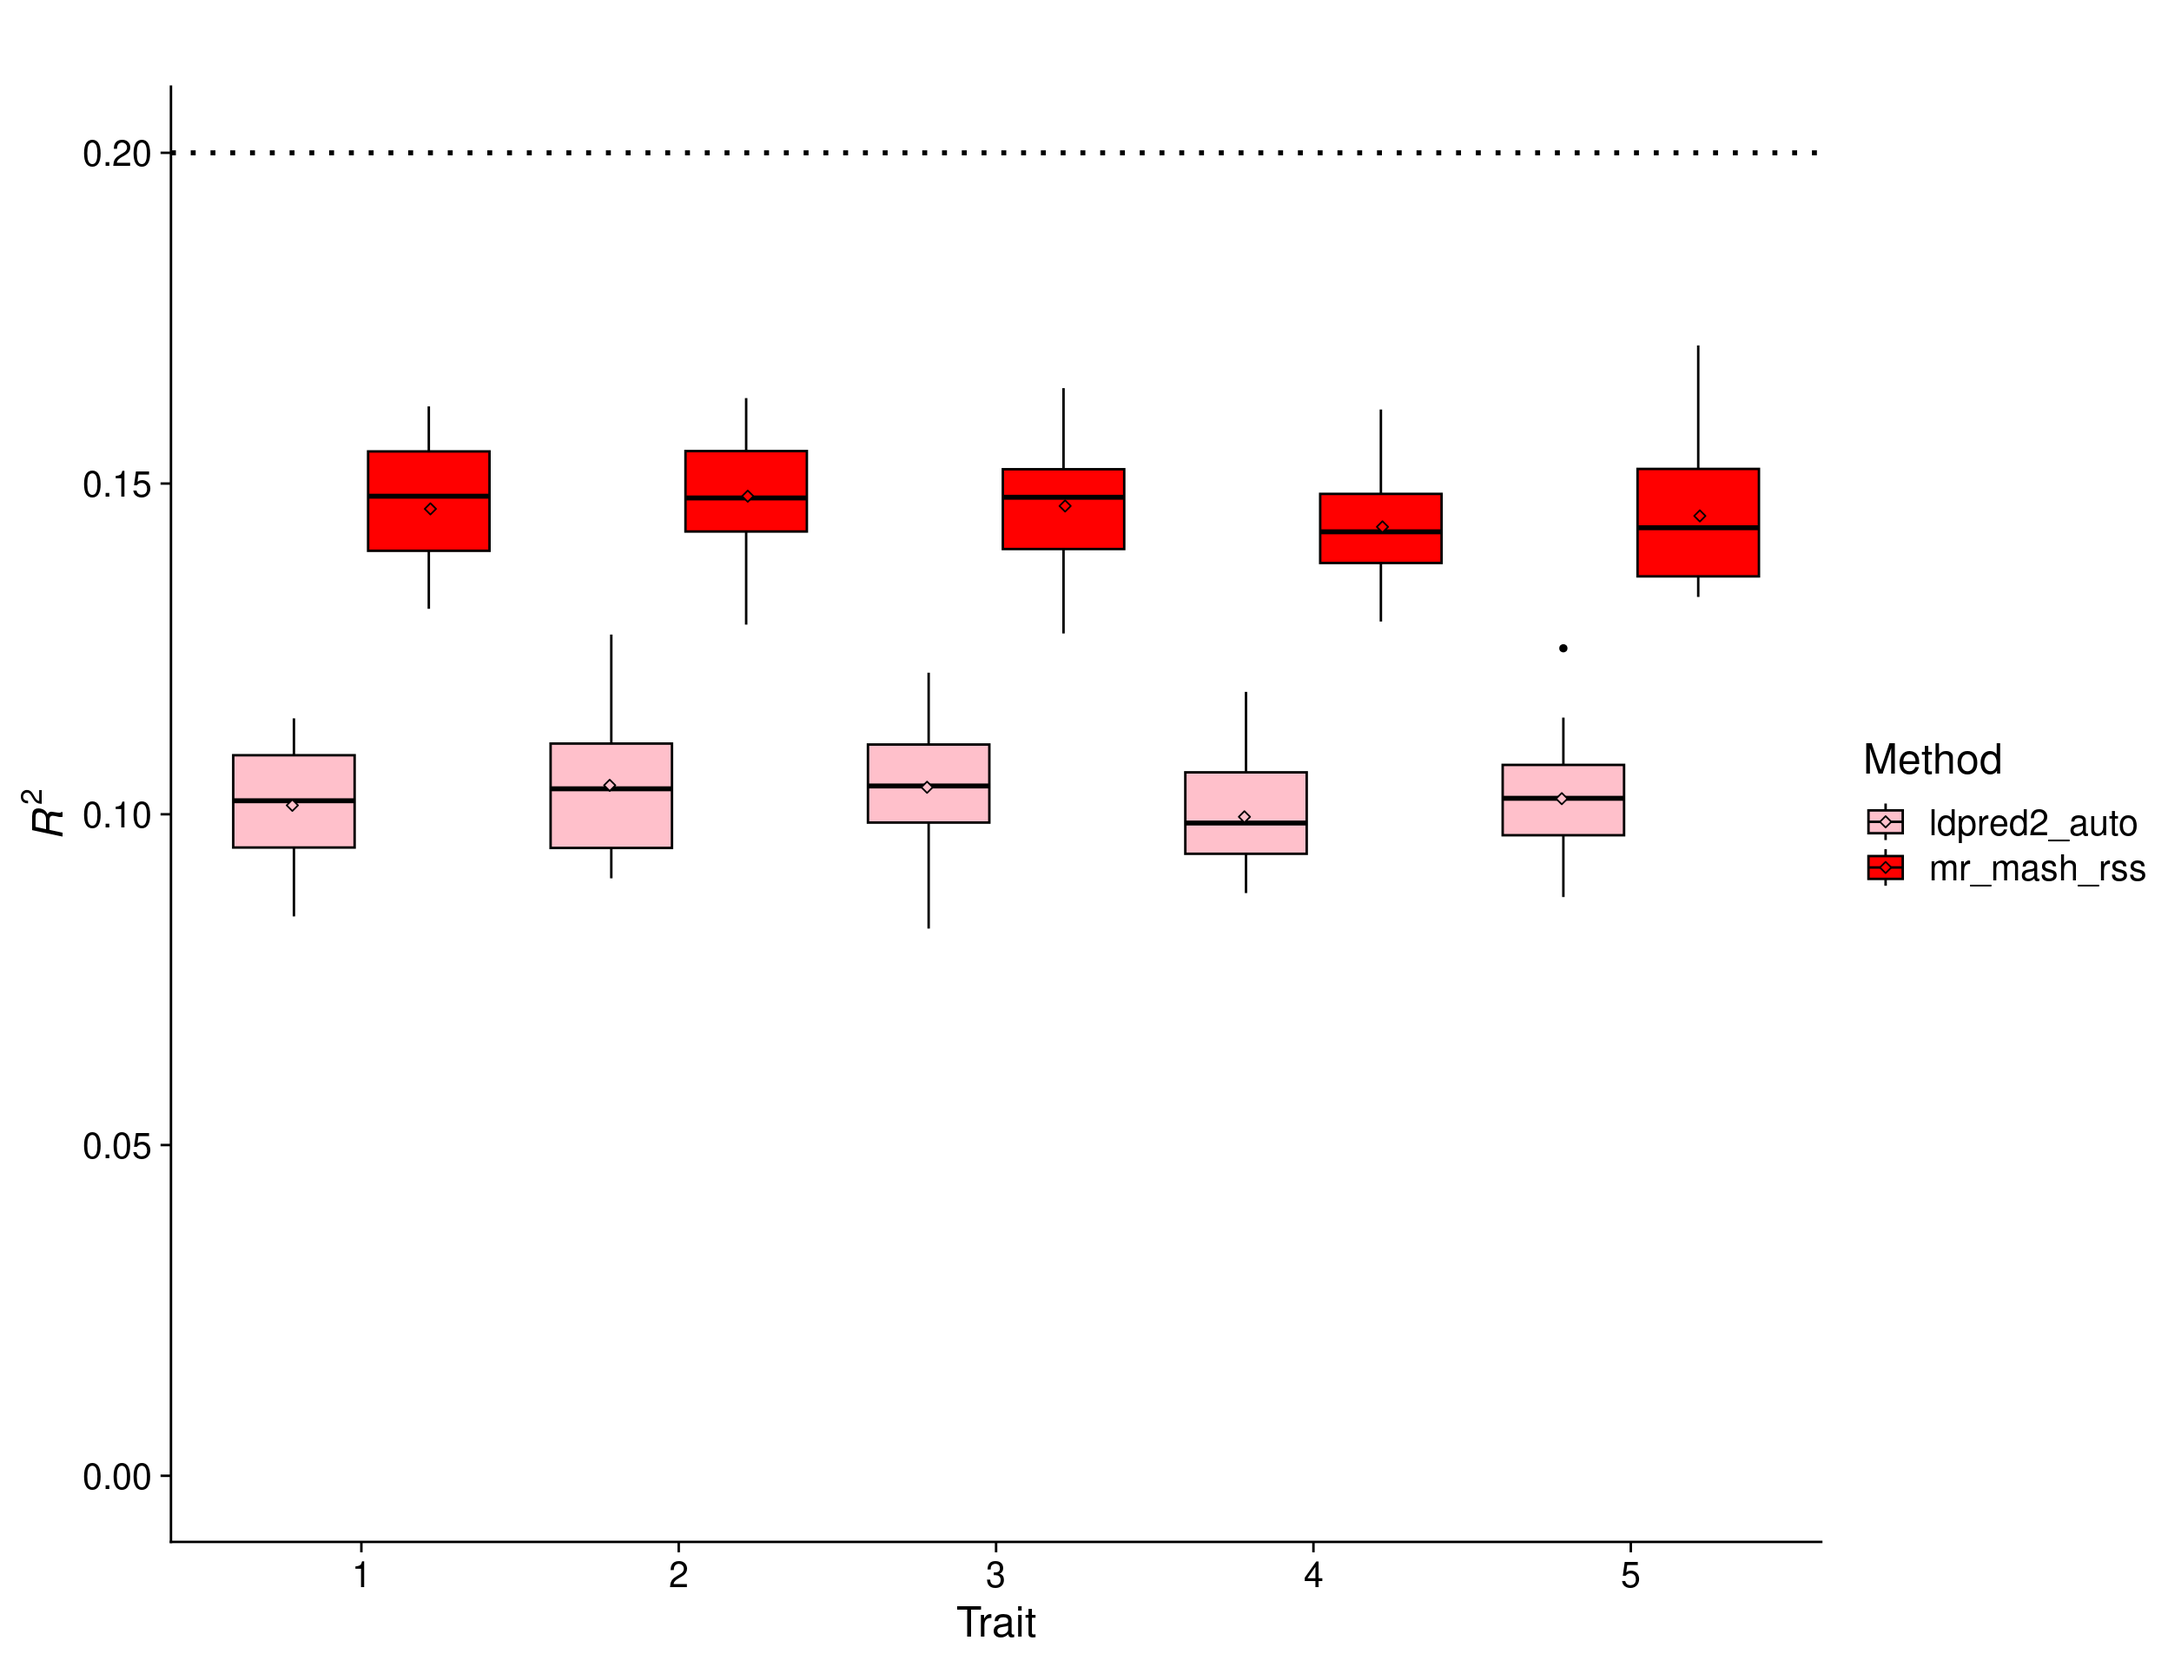
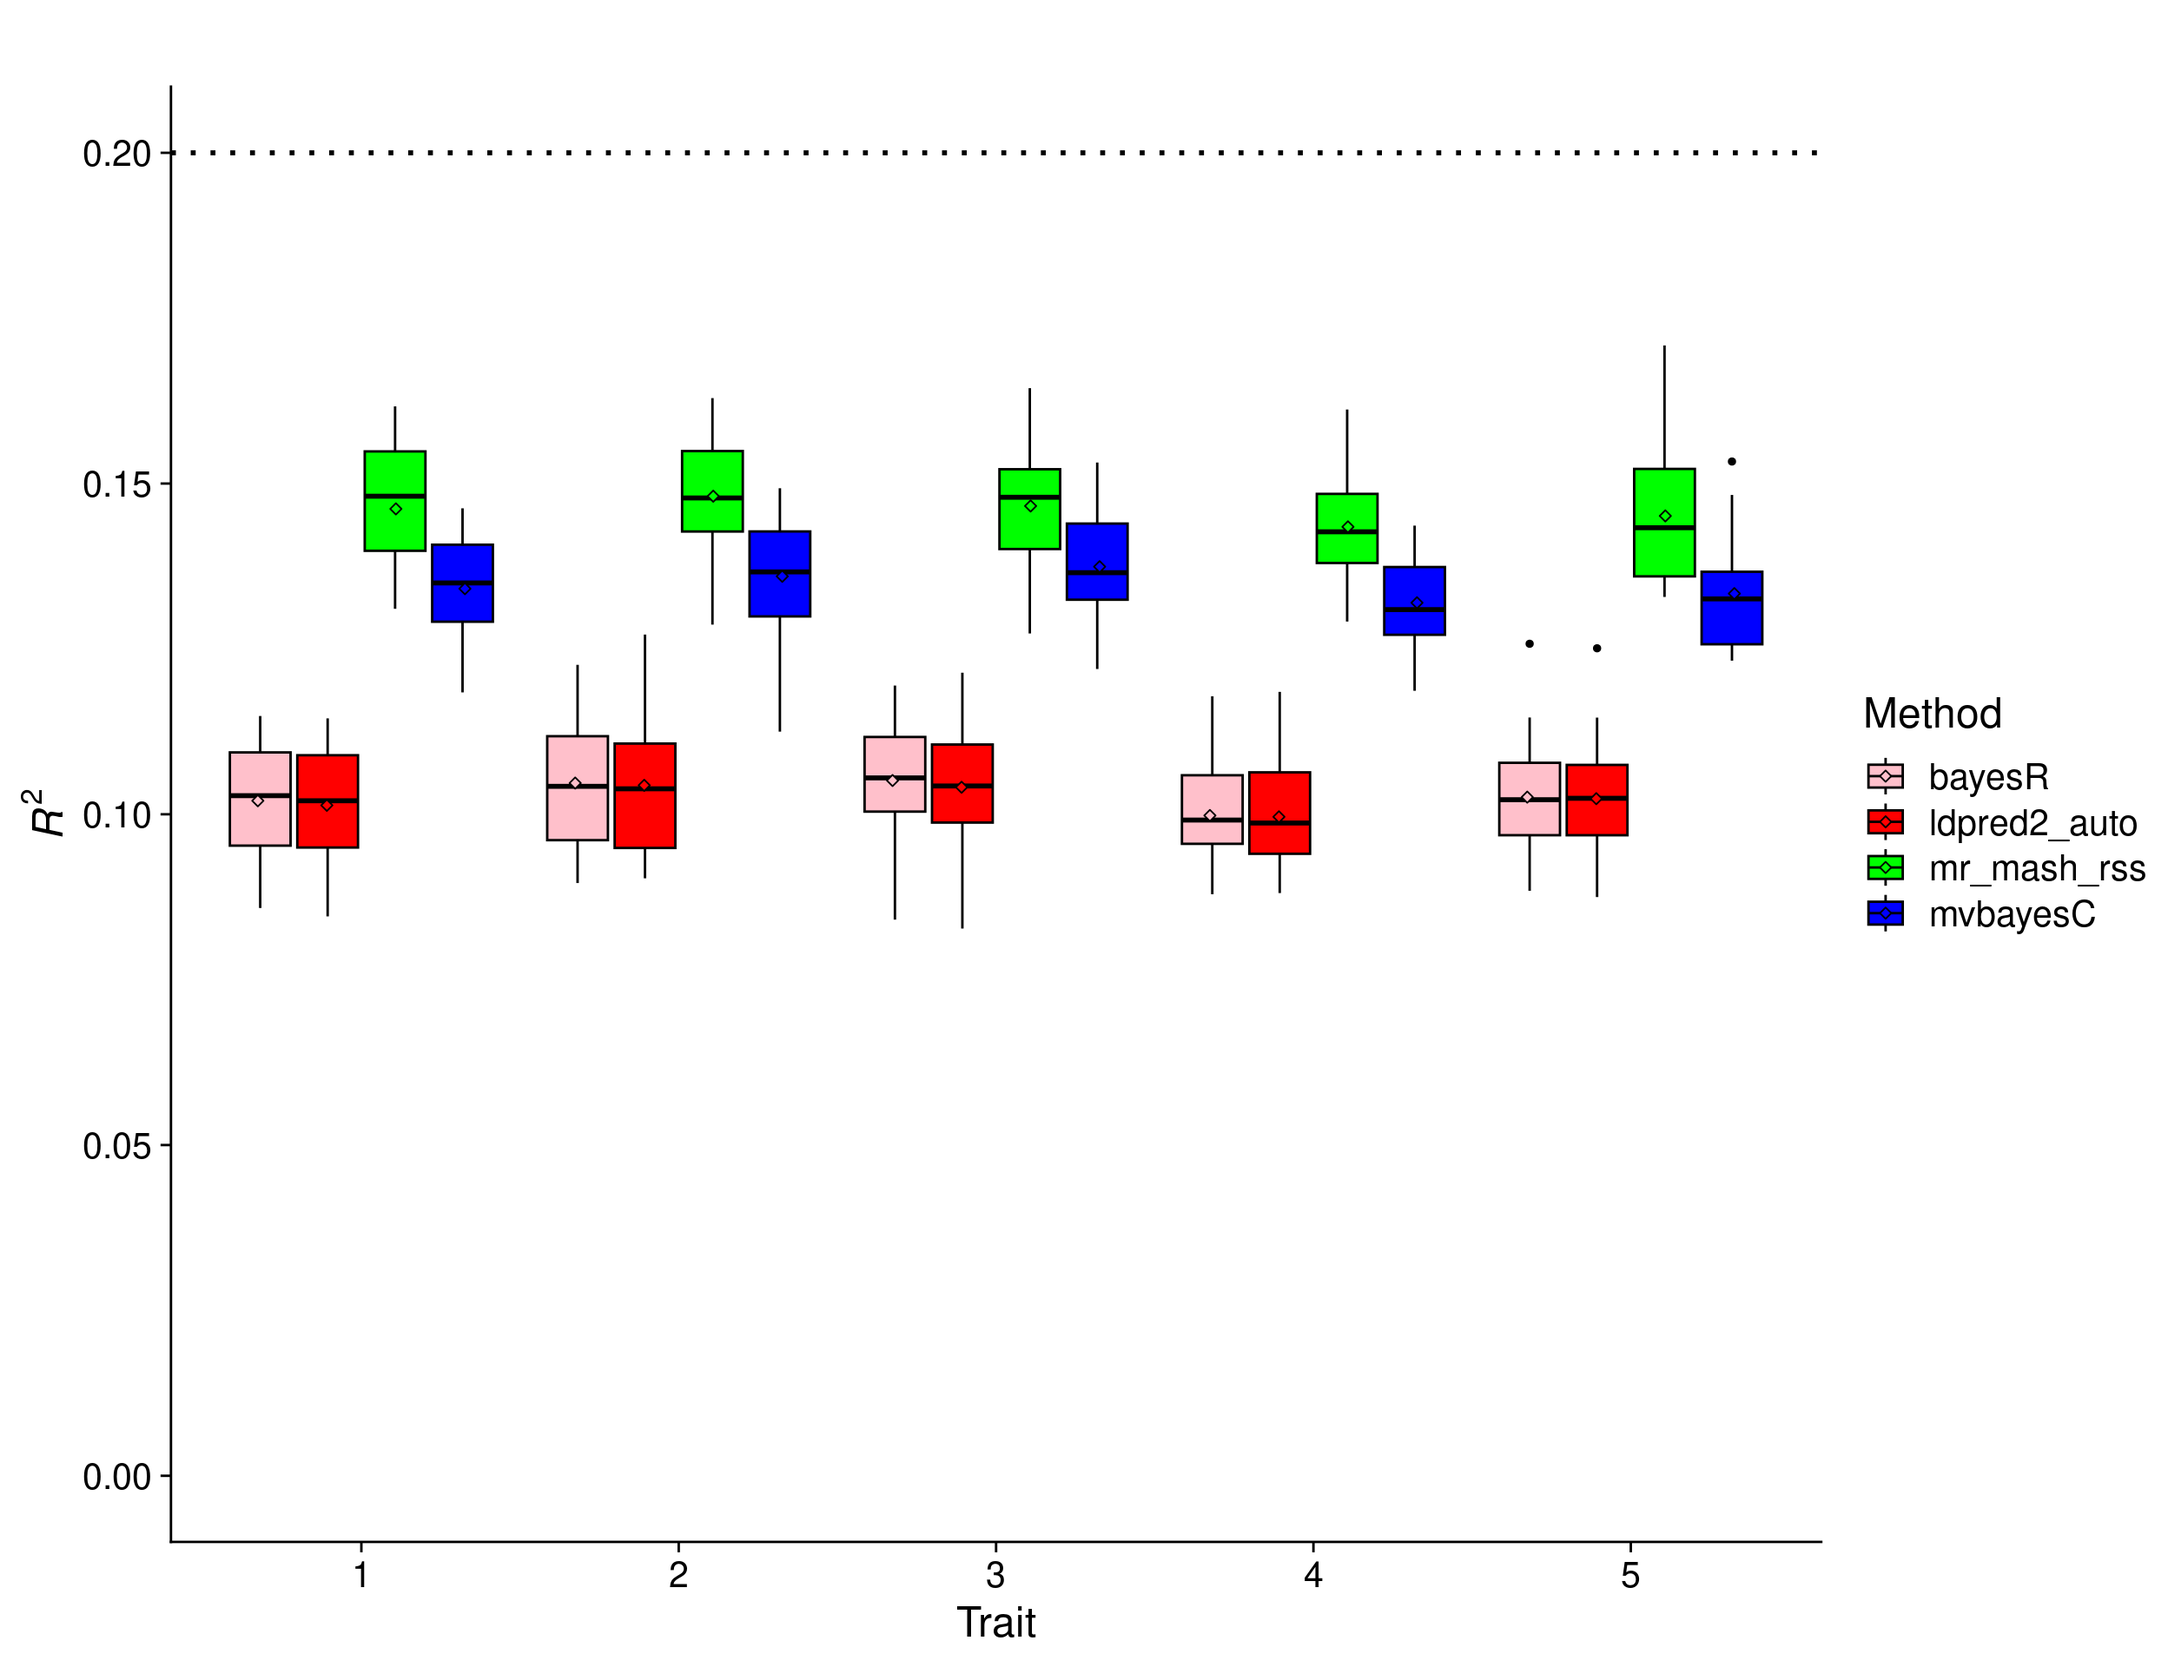
Build site.

diff --git a/docs/ukb_sim_results.html b/docs/ukb_sim_results.html
@@ -534,15 +534,15 @@ project makes it easier to run your code on other machines.</p>
 <div class="panel panel-default">
 <div class="panel-heading">
 <p class="panel-title">
-<a data-toggle="collapse" data-parent="#workflowr-checks" href="#strongRepositoryversionstrongahrefhttpsgithubcommorgantelabmrmashrssanalysistree876699a60b5ade36bff8dc3c3fe443970f2c0c9ctargetblank876699aa">
+<a data-toggle="collapse" data-parent="#workflowr-checks" href="#strongRepositoryversionstrongahrefhttpsgithubcommorgantelabmrmashrssanalysistreecdd004d249eb6387c14ae66467d807460df4297ctargetblankcdd004da">
 <span class="glyphicon glyphicon-ok text-success"
 aria-hidden="true"></span> <strong>Repository version:</strong>
-<a href="https://github.com/morgantelab/mr_mash_rss_analysis/tree/876699a60b5ade36bff8dc3c3fe443970f2c0c9c" target="_blank">876699a</a>
+<a href="https://github.com/morgantelab/mr_mash_rss_analysis/tree/cdd004d249eb6387c14ae66467d807460df4297c" target="_blank">cdd004d</a>
 </a>
 </p>
 </div>
 <div
[2 lines of base64/hex data omitted]
 class="panel-collapse collapse">
 <div class="panel-body">
 <p>
@@ -552,7 +552,7 @@ reproducibility.
 </p>
 <p>
 The results in this page were generated with repository version
-<a href="https://github.com/morgantelab/mr_mash_rss_analysis/tree/876699a60b5ade36bff8dc3c3fe443970f2c0c9c" target="_blank">876699a</a>.
+<a href="https://github.com/morgantelab/mr_mash_rss_analysis/tree/cdd004d249eb6387c14ae66467d807460df4297c" target="_blank">cdd004d</a>.
 See the <em>Past versions</em> tab to see a history of the changes made
 to the R Markdown and HTML files.
 </p>
@@ -639,6 +639,40 @@ Message
 </tr>
 </thead>
 <tbody>
+<tr>
+<td>
+Rmd
+</td>
+<td>
+<a href="https://github.com/morgantelab/mr_mash_rss_analysis/blob/cdd004d249eb6387c14ae66467d807460df4297c/analysis/ukb_sim_results.Rmd" target="_blank">cdd004d</a>
+</td>
+<td>
+fmorgante
+</td>
+<td>
+2023-11-18
+</td>
+<td>
+Update results
+</td>
+</tr>
+<tr>
+<td>
+html
+</td>
+<td>
+<a href="https://rawcdn.githack.com/morgantelab/mr_mash_rss_analysis/d9443c6ba7c6c012bdd1d486dab918a090f8f28d/docs/ukb_sim_results.html" target="_blank">d9443c6</a>
+</td>
+<td>
+fmorgante
+</td>
+<td>
+2023-11-18
+</td>
+<td>
+Build site.
+</td>
+</tr>
 <tr>
 <td>
 html
@@ -2551,7 +2585,7 @@ implies that the effects of the causal variants are equal across
 responses. In addition, the per-trait genomic heritability was set to
 0.2.</p>
 <pre class="r"><code>scenarioz &lt;- &quot;equal_effects_low_pve_indep_resid&quot;
-methodz &lt;- c(&quot;mr_mash_rss&quot;, &quot;ldpred2_auto&quot;)#, &quot;bayesR&quot;)
+methodz &lt;- c(&quot;mr_mash_rss&quot;, &quot;mvbayesC&quot;, &quot;ldpred2_auto&quot;, &quot;bayesR&quot;)
 
 i &lt;- 0
 
